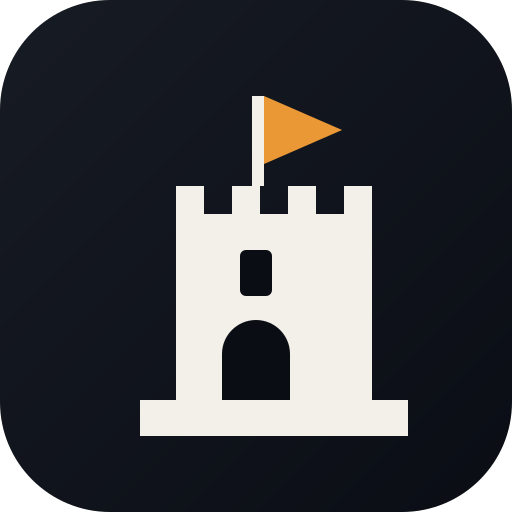
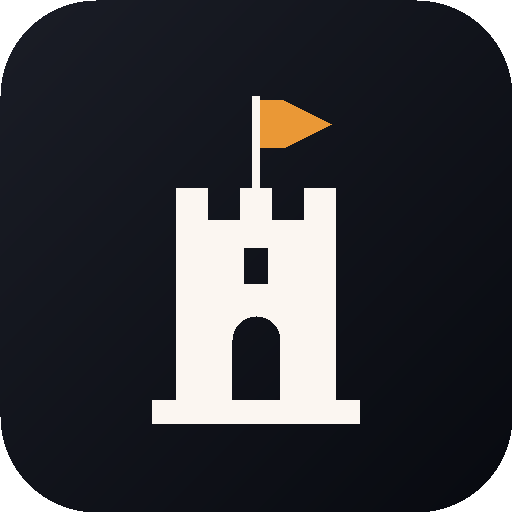
Het donkere icoon komt nu uit het icoon zelf in plaats van uit een natekening. Alleen het donkerblauwe vlak is vervangen door een zwart vlak; de toren, de vlag, het raampje en de poort zijn tot op de beeldpunt dezelfde

diff --git a/sw.js b/sw.js
@@ -13,7 +13,7 @@
 
    Wat hij niet aanraakt: de spelkamers en het klassement (/api/, /ws/, /q),
    want die moeten altijd live zijn. */
-var VERSIE = "v105";
+var VERSIE = "v106";
 var KERN = "kern-" + VERSIE, VOORRAAD = "voorraad-" + VERSIE;
 var STARTSET = [
   "/leermiddelen/", "/leermiddelen/index.html", "/leermiddelen/mee.html", "/leermiddelen/basis.css", "/leermiddelen/thema.js",
